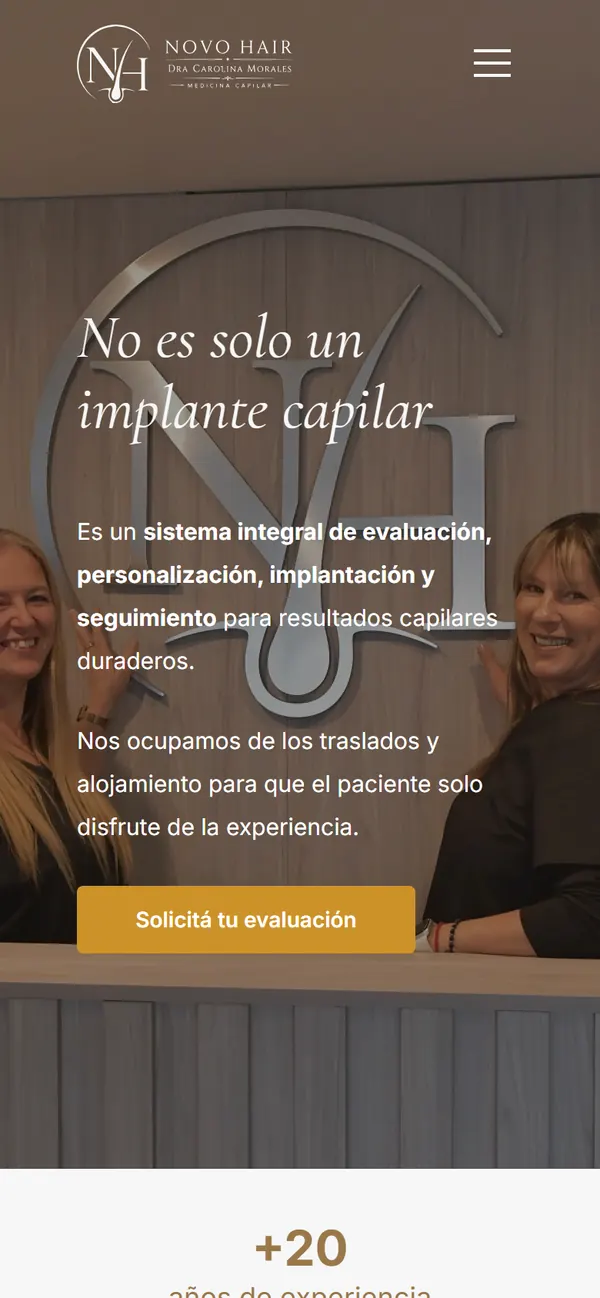
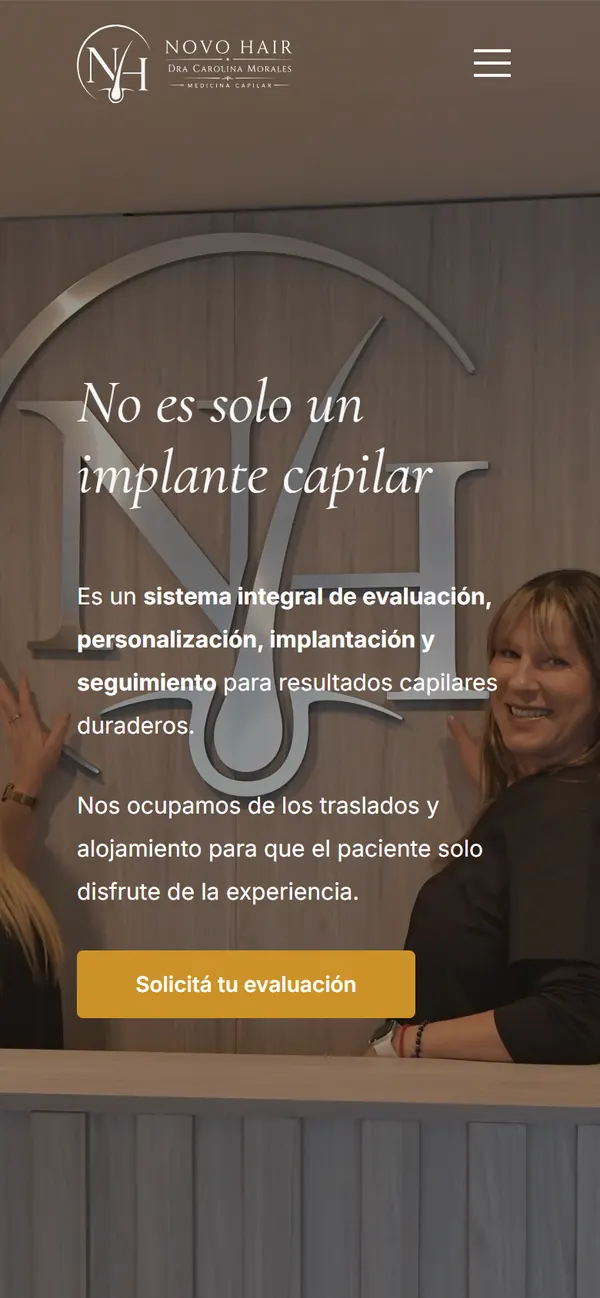
Desarrollo web: celular más grande, puntaje real por cliente y tablet hasta 1280 px
Captura mobile de Novo Hair sin la franja de la sección siguiente.
Tarjeta con el PageSpeed (computadora) de cada cliente, que cambia con
la rotación. Incluye los cambios de Mauro en brief, roadmap y lanzamiento.

diff --git a/sitio/assets/css/secciones.css b/sitio/assets/css/secciones.css
@@ -312,18 +312,60 @@ body.menu-abierto { overflow: hidden; }
 
 .dw-pantallas .notebook { display: none; }
 
-.dw-pantallas .celular { width: 56%; }
+/* Corrido a la derecha para que la tarjeta del puntaje tape lo menos posible */
+.dw-pantallas .celular { width: 62%; margin-left: 30%; }
 
+/* Tarjeta del puntaje: muestra el PageSpeed del cliente que se está viendo */
 .dw-puntaje {
   position: absolute;
   z-index: 2;
-  top: 12%;
+  top: 10%;
   left: 0;
-  width: 9.5rem;
-  padding: 1rem;
+  width: 8.75rem;
+  padding: 0.875rem 0.75rem;
   text-align: center;
   background-color: rgba(11, 21, 36, 0.85);
 }
+
+.dw-puntaje-circulo {
+  position: relative;
+  width: 5rem;
+  margin: 0 auto 0.5rem;
+}
+
+.dw-puntaje-circulo .indicador {
+  width: 100%;
+  height: auto;
+  margin: 0;
+}
+
+.dw-puntaje-numero {
+  position: absolute;
+  inset: 0;
+  display: grid;
+  place-items: center;
+  font-family: var(--fuente-titulos);
+  font-weight: 700;
+  font-size: 1.375rem;
+  line-height: 1;
+  color: var(--blanco);
+}
+
+.dw-puntaje-titulo {
+  font-weight: 600;
+  font-size: 0.9375rem;
+  color: var(--blanco);
+}
+
+.dw-puntaje-fuente,
+.dw-puntaje-seo {
+  margin-top: 0.25rem;
+  font-size: 0.6875rem;
+  line-height: 1.35;
+  color: var(--celeste-claro);
+}
+
+.dw-puntaje-seo { font-weight: 600; color: var(--celeste); }
 
 /* Entrada: las pantallas suben con un fundido y la tarjeta llega después */
 .js .dw-pantallas .notebook,
@@ -352,20 +394,6 @@ body.menu-abierto { overflow: hidden; }
     transform: none;
     transition-delay: 0s;
   }
-}
-
-.dw-puntaje-numero {
-  font-family: var(--fuente-titulos);
-  font-weight: 700;
-  font-size: 0.8125rem;
-  line-height: 1.3;
-  color: var(--celeste);
-}
-
-.dw-puntaje-texto {
-  margin-top: 0.5rem;
-  font-size: 0.8125rem;
-  color: var(--celeste-claro);
 }
 
 .clientes {
@@ -426,27 +454,31 @@ body.menu-abierto { overflow: hidden; }
   .dw-boton,
   .sis-boton { justify-self: start; }
 
-  /* Desde tablet: notebook con el celular adelante */
+  /* Desde tablet: notebook con el celular adelante, superpuesto a la esquina
+     de abajo a la derecha. El celular va grande (más que la proporción
+     física) para que la web de adentro se lea. */
   .dw-pantallas {
     align-items: flex-end;
     width: 100%;
-    max-width: 36rem;
+    max-width: 40rem;
     margin-inline: auto;
     padding-top: 3rem;
+    padding-bottom: 2.5rem;
   }
 
   .dw-pantallas .notebook {
     display: block;
-    width: 82%;
-    margin-right: 12%;
+    width: 80%;
+    margin-right: 17%;
   }
 
   .dw-pantallas .celular {
     position: absolute;
     z-index: 1;
     right: 0;
-    bottom: -1rem;
-    width: 22%;
+    bottom: 0;
+    width: 27%;
+    margin-left: 0;
   }
 
   .dw-puntaje { top: 0; left: -1.5rem; }
@@ -462,7 +494,9 @@ body.menu-abierto { overflow: hidden; }
   .clientes-lista li:last-child { margin-right: 0; }
 }
 
-@media (min-width: 1024px) {
+/* Dos columnas recién desde 1280 px: antes, "DESARROLLO" deja muy angosta
+   la columna de las pantallas y se usa la disposición de tablet */
+@media (min-width: 1280px) {
   .dw-contenedor {
     grid-template-columns: 1fr 1.1fr;
     grid-template-areas:
@@ -479,11 +513,8 @@ body.menu-abierto { overflow: hidden; }
 
   .dw-pantallas { max-width: none; }
 
-  /* La columna visual es angosta (el h2 ocupa mucho): notebook más grande
-     y la tarjeta del puntaje corrida hacia el espacio entre columnas */
-  .dw-pantallas .notebook { width: 90%; margin-right: 7%; }
-  .dw-pantallas .celular { width: 23%; bottom: -1.5rem; }
-  .dw-puntaje { top: 0.5rem; left: -3rem; width: 8.5rem; padding: 0.875rem; }
+  /* La tarjeta del puntaje se corre hacia el espacio entre columnas */
+  .dw-puntaje { top: 0.5rem; left: -3rem; }
 
   .cliente { font-size: 1rem; padding-inline: 0.875rem; }
 }

diff --git a/sitio/assets/js/secciones.js b/sitio/assets/js/secciones.js
@@ -14,8 +14,10 @@
    - Los clientes rotan solos cada ROTACION_MS mientras la sección está en
      pantalla. La rotación se corta para siempre apenas el usuario toca un
      nombre. Con movimiento reducido no rota.
-   - Indicador circular del puntaje: si tiene data-puntaje, el arco se llena
-     al entrar en pantalla.
+   - Tarjeta del puntaje: muestra el PageSpeed (computadora) del cliente que
+     se está viendo, tomado de data-rendimiento y data-seo de cada botón.
+     La primera vez que aparece, el arco se llena y el número sube contando;
+     después cambia junto con el cliente. Sin data-seo, no hay línea de SEO.
    ========================================================================== */
 (function () {
   'use strict';
@@ -69,8 +71,40 @@
       if (visible) cuandoLibre(cargarCapturas);
     }, '400px 0px');
 
+    // Tarjeta del puntaje
+    var indicador = dw.querySelector('.indicador');
+    var numero = dw.querySelector('.dw-puntaje-numero');
+    var lineaSeo = dw.querySelector('.dw-puntaje-seo');
+    var numeroSeo = dw.querySelector('.dw-puntaje-seo-numero');
+    var puntajeVisto = false; // hasta que la tarjeta aparece, no se anima nada
+    var conteo = null;
+
+    function contar(hasta) {
+      cancelAnimationFrame(conteo);
+      if (reducido) { numero.textContent = hasta; return; }
+      var inicio = performance.now();
+      (function paso(ahora) {
+        var t = Math.min((ahora - inicio) / 1400, 1);
+        numero.textContent = Math.round(hasta * (1 - Math.pow(1 - t, 3)));
+        if (t < 1) conteo = requestAnimationFrame(paso);
+      })(inicio);
+    }
+
+    function mostrarPuntaje(boton) {
+      if (!indicador || !numero) return;
+      var rendimiento = boton.dataset.rendimiento;
+      var seo = boton.dataset.seo;
+      indicador.style.setProperty('--puntaje', rendimiento);
+      if (puntajeVisto) { cancelAnimationFrame(conteo); numero.textContent = rendimiento; }
+      if (lineaSeo) {
+        lineaSeo.hidden = !seo;
+        if (seo && numeroSeo) numeroSeo.textContent = seo;
+      }
+    }
+
     function mostrar(indice, desdeRotacion) {
       activo = indice;
+      mostrarPuntaje(botones[indice]);
       var id = botones[indice].dataset.cliente;
       botones.forEach(function (b, i) { b.setAttribute('aria-pressed', String(i === indice)); });
       capturas.forEach(function (img) {
@@ -114,12 +148,17 @@
     var visual = dw.querySelector('.dw-pantallas');
     alEntrar(visual, function () { visual.classList.add('visible'); }, 0.2);
 
-    // Indicador circular del puntaje (cuando exista el puntaje real)
-    var indicador = dw.querySelector('.indicador');
-    var puntaje = indicador ? parseFloat(indicador.dataset.puntaje) : NaN;
-    if (indicador && puntaje >= 0) {
-      indicador.style.setProperty('--puntaje', String(Math.min(puntaje, 100)));
-      alEntrar(indicador, function () { indicador.classList.add('lleno'); }, 0.6);
+    // La primera vez que se ve la tarjeta: el arco se llena y el número cuenta
+    if (indicador && numero) {
+      numero.textContent = reducido ? botones[activo].dataset.rendimiento : '0';
+      alEntrar(indicador, function () {
+        // espera a que la tarjeta termine de entrar (llega después de las pantallas)
+        setTimeout(function () {
+          puntajeVisto = true;
+          indicador.classList.add('lleno');
+          contar(+botones[activo].dataset.rendimiento);
+        }, reducido ? 0 : 700);
+      }, 0.6);
     }
   }
 })();

diff --git a/sitio/index.html b/sitio/index.html
@@ -103,23 +103,30 @@
               </div>
             </div>
 
+            <!-- PageSpeed (computadora) del cliente que se está viendo. Los puntajes
+                 van en data-rendimiento y data-seo de cada botón de cliente; acá
+                 queda escrito el del primero (se ve igual sin JavaScript). -->
             <div class="dw-puntaje tarjeta-vidrio">
-              <!-- Indicador circular: cuando haya puntaje real, va en data-puntaje (0 a 100) y el arco se llena al entrar en pantalla -->
-              <svg class="indicador" viewBox="0 0 64 64" aria-hidden="true" data-puntaje="">
-                <circle class="indicador-fondo" cx="32" cy="32" r="28"></circle>
-                <circle class="indicador-arco" cx="32" cy="32" r="28" pathLength="100"></circle>
-              </svg>
-              <p class="dw-puntaje-numero">[FALTA: puntaje real]</p>
-              <p class="dw-puntaje-texto">Velocidad en Google</p>
+              <div class="dw-puntaje-circulo">
+                <svg class="indicador" viewBox="0 0 64 64" aria-hidden="true" style="--puntaje: 100">
+                  <circle class="indicador-fondo" cx="32" cy="32" r="28"></circle>
+                  <circle class="indicador-arco" cx="32" cy="32" r="28" pathLength="100"></circle>
+                </svg>
+                <p class="dw-puntaje-numero">100</p>
+              </div>
+              <p class="dw-puntaje-titulo">Rendimiento</p>
+              <p class="dw-puntaje-fuente">Google PageSpeed · computadora</p>
+              <p class="dw-puntaje-seo">SEO <span class="dw-puntaje-seo-numero">100</span></p>
             </div>
           </div>
 
           <div class="clientes">
             <p class="etiqueta">Ya confiaron en nosotros</p>
             <ul class="clientes-lista">
-              <li><button class="cliente" type="button" data-cliente="novo-hair" aria-pressed="true">Novo Hair</button></li>
-              <li><button class="cliente" type="button" data-cliente="talar-maderas" aria-pressed="false">Talar Maderas</button></li>
-              <li><button class="cliente" type="button" data-cliente="atr" aria-pressed="false">ATR</button></li>
+              <!-- Puntajes reales medidos por Mauro (nov 2026). Talar Maderas sin SEO hasta que esté en su dominio real. -->
+              <li><button class="cliente" type="button" data-cliente="novo-hair" data-rendimiento="100" data-seo="100" aria-pressed="true">Novo Hair</button></li>
+              <li><button class="cliente" type="button" data-cliente="talar-maderas" data-rendimiento="99" data-seo="" aria-pressed="false">Talar Maderas</button></li>
+              <li><button class="cliente" type="button" data-cliente="atr" data-rendimiento="100" data-seo="100" aria-pressed="false">ATR</button></li>
             </ul>
           </div>
         </div>

diff --git a/sitio/assets/css/componentes.css b/sitio/assets/css/componentes.css
@@ -198,7 +198,8 @@
 }
 
 /* --- Indicador circular (puntaje) ---
-   El arco se llena hasta --puntaje (0 a 100) cuando recibe la clase .lleno */
+   El arco llega hasta --puntaje (0 a 100). Con JavaScript arranca vacío y se
+   llena al recibir la clase .lleno; sin JavaScript se ve lleno de entrada. */
 .indicador {
   display: block;
   width: 3.5rem;
@@ -217,15 +218,14 @@
 .indicador-arco {
   stroke: var(--celeste);
   stroke-linecap: round;
-  stroke-dasharray: 0 100;
-  opacity: 0;
+  stroke-dasharray: var(--puntaje, 0) 100;
   filter: drop-shadow(0 0 4px rgba(71, 173, 255, 0.7));
   transition: stroke-dasharray 1.4s ease-out, opacity 0.3s ease;
 }
 
-.indicador.lleno .indicador-arco {
-  stroke-dasharray: var(--puntaje) 100;
-  opacity: 1;
+.js .indicador:not(.lleno) .indicador-arco {
+  stroke-dasharray: 0 100;
+  opacity: 0;
 }
 
 /* --- Nodo del lienzo de automatizaciones --- */

diff --git a/docs/progress.md b/docs/progress.md
@@ -5,12 +5,15 @@ Lo mantiene Claude Code. Se actualiza al cerrar cada paso.
 ## Actual
 
 - **Fase 3, paso 1 (Desarrollo web): hecho, esperando la revisión de Mauro.** No arrancar el paso 2 sin su confirmación. Fases 1 y 2 aprobadas por Mauro el 19/11 (los detalles de la galaxia se pulen más adelante).
-- Pregunta abierta para Mauro: entre 1024 y ~1280 px la columna de las pantallas de Desarrollo web queda angosta (unos 250 px, porque "DESARROLLO" ocupa casi todo el ancho): la tarjeta del puntaje tapa la notebook y los nombres de clientes se parten en dos líneas. Propuesta: usar la disposición de tablet (pantallas debajo del texto) hasta 1280 px. Es maquetación aprobada en la Fase 1: no se toca sin su OK.
-- Decisiones tomadas en el paso 1 (revisar): rotación cada 5 segundos; con movimiento reducido no rota (se cambia solo tocando); al rotar en mobile, la fila de nombres se desliza sola para mostrar el activo; las pantallas suben con un fundido al entrar y la tarjeta llega después; en desktop la notebook es más grande y la tarjeta se corre hacia el espacio entre columnas.
+- Correcciones de Mauro al paso 1 (19/11), hechas: celular más grande (más que la proporción física, para que la web se lea) superpuesto a la esquina de la notebook; capturas mobile sin franja de la sección siguiente; tarjeta con el PageSpeed real de cada cliente que cambia con la rotación; disposición de tablet hasta 1280 px.
+- Preguntas abiertas para Mauro:
+  - ATR mobile: su hero es más ancho que una pantalla de celular (escala con el ancho: 390x700), así que abajo asoma su sección blanca siguiente. Llenar la pantalla sin esa franja obliga a recortar los costados (se corta el logo o el botón "Compra online"). Lo mismo pasa con ATR en la notebook. Se dejó la captura como estaba hasta que Mauro decida.
+  - Desktop desde 1280 px: en dos columnas, "DESARROLLO" deja la columna de las pantallas en ~400 px, así que el celular queda en ~110 px y la web no se lee. Propuesta: el h2 arriba ocupando todo el ancho y debajo textos a la izquierda y pantallas a la derecha (columna de ~600 px). Es maquetación aprobada: no se toca sin su OK.
+- Decisiones tomadas en el paso 1 (revisar): rotación cada 5 segundos; con movimiento reducido no rota (se cambia solo tocando); al rotar en mobile, la fila de nombres se desliza sola para mostrar el activo; las pantallas suben con un fundido al entrar y la tarjeta llega después; en desktop la tarjeta se corre hacia el espacio entre columnas; el número de la tarjeta sube contando la primera vez que aparece y el círculo se llena; después cambia junto con el cliente.
 - Decisiones de Mauro para la Fase 3 (19/11):
-  - Clientes de Desarrollo web: Novo Hair | Talar Maderas | ATR (cambio en el brief). Capturas sacadas por Claude Code de las webs publicadas, quietas (solo la primera pantalla), desktop 1440x900 y mobile 390x844.
+  - Clientes de Desarrollo web: Novo Hair | Talar Maderas | ATR (cambio en el brief). Capturas sacadas por Claude Code de las webs publicadas, quietas (solo la primera pantalla), desktop 1440x900 y mobile 390x844 (Novo Hair a 390x938 recortada a 844, para que su hero de 90% de pantalla llene todo el celular).
   - Los clientes rotan solos cada unos segundos; la rotación se corta apenas el usuario toca un nombre y se pausa fuera de pantalla.
-  - La tarjeta "Velocidad en Google" sigue con `[FALTA: puntaje real]` hasta el deploy.
+  - La tarjeta del puntaje muestra el PageSpeed real (computadora) del cliente que se está viendo, con los números del brief, sección Desarrollo web. Talar Maderas sin SEO hasta su dominio real.
   - Check de "Stock actualizado" en #25D366 (excepción a la paleta: el verde de WhatsApp también en ese check).
   - Dashboard de Sistemas con datos demo y productos genéricos de cualquier comercio, nada que remita a un cliente real.
   - La notebook de Sistemas se abre una vez y queda abierta.
@@ -75,6 +78,7 @@ Lo mantiene Claude Code. Se actualiza al cerrar cada paso.
 
 ## Hecho
 
+- 19/11: correcciones del paso 1 de la Fase 3: celular más grande, captura mobile de Novo Hair sin franja, tarjeta con el PageSpeed real de cada cliente (Novo Hair 100 y SEO 100, Talar Maderas 99, ATR 100 y SEO 100) que cambia con la rotación y sin `[FALTA]`, disposición de tablet hasta 1280 px. Probado con Chrome en 375x667, 390x844, 768x1024, 1024x768, 1180x820, 1280x800, 1440x900 y con movimiento reducido: sin errores ni scroll horizontal. No probado en un celu real.
 - 19/11: Fase 3, paso 1: Desarrollo web. Capturas de Novo Hair, Talar Maderas (link provisorio) y ATR sacadas con Chrome sin ventana y pasadas a WebP (37 a 100 KB). Notebook y celular hechos en CSS, cambio de cliente con fundido, rotación automática que se corta al tocar un nombre y se pausa fuera de pantalla o con la pestaña oculta, carga diferida de las capturas (en mobile no se bajan las de la notebook), indicador circular listo para el puntaje real. Nuevo `secciones.js`. Probado con Chrome en 375x667, 390x844, 768x1024, 1024x768, 1440x900, 1920x1080 y con movimiento reducido: sin errores de consola (solo falta el favicon, que es de la Fase 5) ni scroll horizontal. No probado en un celu real.
 - 19/11: ajustes de la revisión de las Fases 1 y 2 (6 puntos): galaxia del hero más real con violetas sueltas, pin del hero con la formación de la S más rica, supernova sobre la galaxia, fugaces fuera del hero, títulos que se forman apenas asoma su sección y caen en bytes al irse, S que no toca la etiqueta en pantallas bajas. Probado con Chrome en 375x667, 390x664, 390x844, 768x1024, 1024x768 y 1440x900: sin errores de consola ni scroll horizontal, links del menú frenando 40 px debajo del menú, movimiento reducido sin pin, mobile a ~60 cuadros por segundo con la CPU frenada 4 veces. No probado en un celu real.
 - 18/11: Fase 2 completa. Canvas fijo y motor de partículas (`particulas.js`), galaxia del hero en movimiento lento, S muestreada de una copia del isologo sin "DEV", títulos de 0 y 1 muestreados de cada h2, transición en espiral atada al scroll que rebobina al subir, cadena galaxia > S > DESARROLLO WEB > AUTOMATIZACIONES > SISTEMAS > HABLEMOS, cruce con el h2 real, 900/2500 partículas, pausa con pestaña oculta, versión con movimiento reducido, estrellas fugaces cada 6 a 10 s (nunca durante una espiral) y luces al tocar o hacer clic (no al deslizar, sin bloquear botones). Probado en 375x667, 390x844, 768x1024, 1024x768 y 1440x900 con Chrome sin placa de video: sin errores de consola ni scroll horizontal; mobile a ~60 cuadros por segundo con la CPU frenada 4 veces.

diff --git a/docs/componentes.md b/docs/componentes.md
@@ -8,8 +8,8 @@ Lo mantiene Claude Code. Registro de las piezas reutilizables, para usarlas en l
 - `sitio/assets/css/componentes.css`: los componentes de abajo.
 - `sitio/assets/css/secciones.css`: disposición de cada sección de la landing (no se reutiliza).
 - `sitio/assets/js/interfaz.js`: menú hamburguesa y WhatsApp que se esconde con el formulario en mobile.
-- `sitio/assets/js/secciones.js`: animaciones de cada sección (Fase 3). Funciones de ayuda `alEntrar` (una vez, al aparecer en pantalla), `alVer` (cada vez que entra o sale) y `cuandoLibre`. Las entradas se disparan con IntersectionObserver y no con posiciones de scroll, para que el pin del hero y el parallax no las corran. Desarrollo web: cambio de cliente, rotación automática, carga diferida de capturas, entrada de las pantallas e indicador del puntaje.
-- `sitio/assets/img/clientes/`: capturas de las webs de clientes en WebP, `<cliente>-desktop.webp` (1280x800) y `<cliente>-mobile.webp` (600x1298, sacada a 390x844 con pantalla retina). Solo la primera pantalla de cada web.
+- `sitio/assets/js/secciones.js`: animaciones de cada sección (Fase 3). Funciones de ayuda `alEntrar` (una vez, al aparecer en pantalla), `alVer` (cada vez que entra o sale) y `cuandoLibre`. Las entradas se disparan con IntersectionObserver y no con posiciones de scroll, para que el pin del hero y el parallax no las corran. Desarrollo web: cambio de cliente, rotación automática, carga diferida de capturas, entrada de las pantallas y tarjeta del puntaje de cada cliente.
+- `sitio/assets/img/clientes/`: capturas de las webs de clientes en WebP, `<cliente>-desktop.webp` (1280x800) y `<cliente>-mobile.webp` (600x1298, sacada a 390x844 con pantalla retina). Solo la primera pantalla de cada web. Si el hero de una web no llena la pantalla (por ejemplo, ocupa el 90% del alto), se saca con una pantalla más alta y se recorta al hero, para que no asome la sección siguiente.
 - `sitio/assets/img/iconos.svg`: todos los íconos en un solo archivo.
 - `sitio/assets/js/particulas.js`: sistema de partículas (galaxia, S, títulos de 0 y 1, espiral atada al scroll, estrellas fugaces, luces al tocar). Ver "Partículas" abajo.
 - `sitio/assets/img/isologo-s-muestreo.png`: copia del isologo blanco SIN el "DEV", recortada a la S y a 400 px de ancho. Solo se usa para muestrear la forma de la S (el original de `../branding/` no se tocó).
@@ -39,7 +39,8 @@ Uso: `<svg class="icono" aria-hidden="true"><use href="assets/img/iconos.svg#i-N
 | Notebook | `.notebook` > `.notebook-tapa` > `.pantalla`, más `.notebook-base` | componentes.css | Desarrollo web (desde tablet). Hecha en CSS, medidas en % para que escale con el ancho. El aluminio es celeste claro con transparencia |
 | Celular | `.celular` > `.pantalla` | componentes.css | Desarrollo web. Con la isla de la cámara en `::after` |
 | Pantalla con capturas | `.pantalla` + `.pantalla-captura` (`.activa` la que se ve) | componentes.css | Dentro de la notebook y el celular. Las capturas van apiladas y cambian con un fundido. Las que llevan `data-src` se cargan después |
-| Indicador circular | `.indicador` (SVG con `.indicador-fondo` y `.indicador-arco`) | componentes.css | Tarjeta del puntaje. Con `data-puntaje` (0 a 100), el arco se llena al entrar en pantalla (clase `.lleno`). Sin puntaje queda solo el aro de fondo |
+| Indicador circular | `.indicador` (SVG con `.indicador-fondo` y `.indicador-arco`) | componentes.css | Tarjeta del puntaje. El arco llega hasta la variable `--puntaje` (0 a 100). Con JavaScript arranca vacío y se llena con la clase `.lleno`; sin JavaScript se ve lleno |
+| Tarjeta del puntaje | `.dw-puntaje` (`.dw-puntaje-circulo`, `-numero`, `-titulo`, `-fuente`, `-seo`) | secciones.css | Desarrollo web. Los puntajes van en `data-rendimiento` y `data-seo` de cada botón `.cliente`; si `data-seo` está vacío, no hay línea de SEO |
 | Nodo | `.nodo` + `.nodo-texto` | componentes.css | Lienzo de Automatizaciones |
 | Bloque | `.bloque` | componentes.css | Seguro, Sencillo, Personalizado |
 | Acordeón | `.acordeon` + `.acordeon-item` (details/summary) | componentes.css | Preguntas frecuentes |

diff --git a/docs/brief.md b/docs/brief.md
@@ -78,7 +78,11 @@ Referencia: `originales/mockups/02-desarrollo-web.jpg`
   - Botón: "Quiero mi web" (lleva al formulario con "Desarrollo web" ya marcado).
 - **Derecha:**
   - Notebook y celular mostrando una web de cliente, con glow #0040FF detrás.
-  - Tarjeta flotante con un indicador circular y el número del puntaje de rendimiento de Google (PageSpeed) de ESTA web, con el texto "Velocidad en Google". El número tiene que ser el real, medido después del deploy. Mientras tanto: [FALTA: puntaje real].
+  - Tarjeta flotante con un indicador circular: muestra el puntaje de Google PageSpeed (versión computadora) DEL CLIENTE QUE SE ESTÁ VIENDO y cambia junto con la rotación de clientes. Texto: el número grande, "Rendimiento" y abajo, chico, "Google PageSpeed · computadora". Si el cliente tiene SEO medido, una segunda línea chica "SEO 100". Puntajes reales medidos por Mauro (nov 2026):
+    - Novo Hair: rendimiento 100, SEO 100.
+    - Talar Maderas: rendimiento 99. SEO no se muestra hasta que esté en su dominio real (en el link provisorio da 54 por el robots.txt); ahí se vuelve a medir.
+    - ATR: rendimiento 100, SEO 100.
+    - Los puntajes de celular son menores (76 y 77) y no se muestran. Nunca inventar ni redondear números.
   - Debajo: "YA CONFIARON EN NOSOTROS" (#A0D3FD, mayúsculas, espaciado) y los nombres de los clientes: Novo Hair | Talar Maderas | ATR. Al tocar un nombre, las pantallas muestran la web de ese cliente (capturas en `sitio/assets/img/clientes/`). [FALTA: capturas desktop y mobile de cada web, y confirmación de Mauro de que cada cliente acepta aparecer].
 
 ## 6. Sección 3: Automatizaciones

diff --git a/docs/lanzamiento.md b/docs/lanzamiento.md
@@ -13,7 +13,8 @@ Se repasa con Mauro en la Fase 6, antes de publicar. Claude Code tiene que recor
 
 - [ ] Google Search Console: verificar el dominio y enviar el sitemap.
 - [ ] Bing Webmaster Tools: verificar y enviar el sitemap (ChatGPT usa el índice de Bing). Se puede importar desde Search Console.
-- [ ] Medir PageSpeed real y cargar el número en la tarjeta de Desarrollo web.
+- [ ] Medir PageSpeed de la web de Syntropic (objetivo 90+ en todo).
+- [ ] Cuando Talar Maderas esté en su dominio real: rehacer su captura, volver a medir PageSpeed y sumar su SEO a la tarjeta.
 - [ ] Probar el formulario en producción (llega a Airtable y dispara el evento del Pixel).
 
 ## Fuera de la web (cuando se pueda)

diff --git a/docs/roadmap.md b/docs/roadmap.md
@@ -69,7 +69,7 @@ Orden de construcción. Una fase a la vez; cada fase termina con Mauro revisando
 0. Repasar con Mauro `docs/lanzamiento.md` y no publicar hasta que esté completo.
 1. Generar `publicar/` con HTML, CSS y JS minificados y sin comentarios.
 2. Deploy en Cloudflare Pages y conexión del dominio.
-3. Medir el puntaje real de PageSpeed y ponerlo en la tarjeta de la sección Desarrollo web.
+3. Medir el PageSpeed real de la web publicada (objetivo 90+ en todo).
 4. Prueba final del formulario en producción.
 
 ## Fase 7: v2, páginas por servicio
